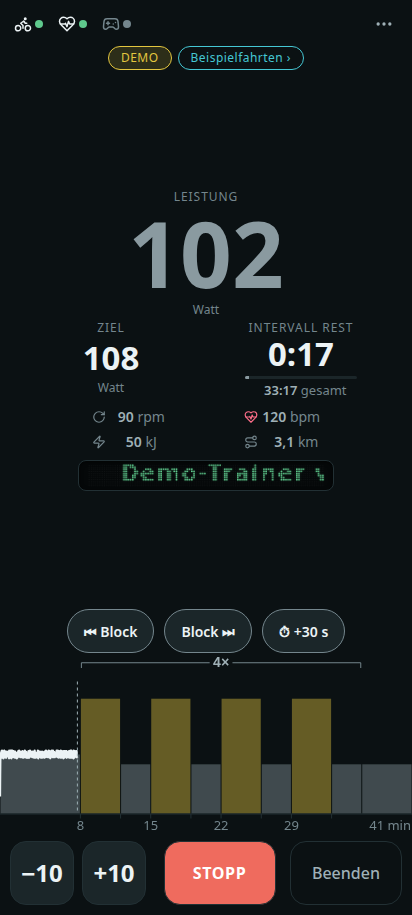
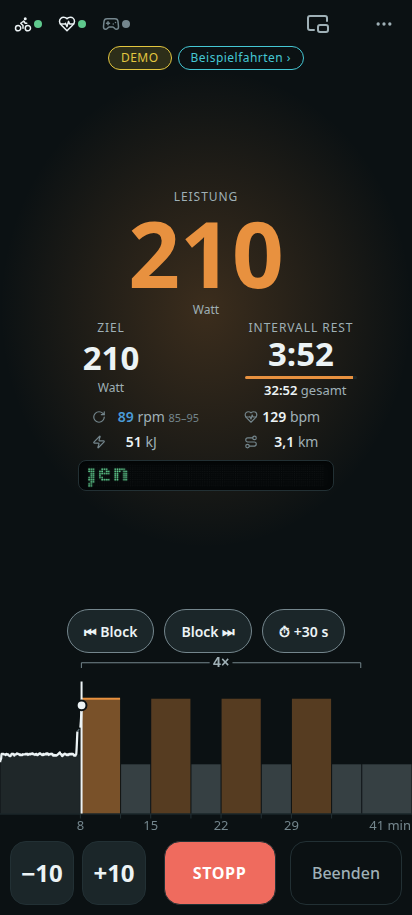
feat: nächsten Block in der LED-Zeile ankündigen, README für 3.6
Rund 12 s vor dem Wechsel zeigt die LED-Zeile Zielwert und Dauer, nur aus Blöcken ab 60 s und bei mindestens 25 W Sprung. Die Meldung endet, sobald der Block läuft. Der Stil-Check führt die Altlasten nicht mehr als Altbestand. README-Bilder sind neu.

Claude-Session: https://claude.ai/code/session_01B8z44TMxjx6VYNVahZVfmM

diff --git a/js/ui/ride.js b/js/ui/ride.js
@@ -26,6 +26,10 @@ import { zeigeBelegung } from './lenker-karte.js';
 import { LedZeile } from './led-zeile.js';
 import { tokenLeser } from './tokens.js';
 
+const ANKUENDIGEN_VOR_S = 12;     // so lange vor dem Wechsel läuft die Ankündigung an
+const ANKUENDIGEN_AB_S = 60;      // nur aus Blöcken ab dieser Länge
+const ANKUENDIGEN_SPRUNG_W = 25;  // nur bei spürbarem Sprung
+
 const STOPP_SPERRE_MS = 3000;     // Panik-Schutz nach Not-Stopp
 const HALTEN_PAUSE_MS = 500;      // ±-Knopf halten: erste Wiederholung
 const HALTEN_TAKT_MS = 300;       //   … danach im Takt
@@ -70,7 +74,7 @@ export class RideScreen {
     this.#abmelden = beobachte(this.$('#live-chart'), () => this.render());
     // session stirbt mit der Fahrt (Abos dort unkritisch); Pool-Clients leben
     // weiter — deren Listener MÜSSEN in destroy() wieder abgebaut werden
-    session.addEventListener('tick', () => { this.render(); this.#pip?.update(); });
+    session.addEventListener('tick', () => { this.render(); this.#kuendigeAn(); this.#pip?.update(); });
     session.addEventListener('target', () => { this.render(); this.#pip?.update(); });
     session.addEventListener('error', e => this.#info(e.detail, 'err'));
     // Startmeldung: zeigt, womit gefahren wird — und dass die Tafel lebt.
@@ -99,6 +103,8 @@ export class RideScreen {
   #cursorBlinkBis = 0;
   #zustaende = new Map();     // Statuszeile: art → { text, cls }
   #infoMeldung = null;        // einmalige Meldung { text, cls, neu }
+  #angekuendigt = -1;         // Block, dessen Nachfolger schon angekündigt wurde
+  #ankuendigung = null;       // Text der letzten Ankündigung
   #wartenderHinweis = null;   // leiser Hinweis hinter einer laufenden Fehlermeldung
   #abmelden = null;           // Resize-Beobachtung des Charts
   #rpmAbweichSeit = null;     // Fahrzeit (s), seit die Kadenz außerhalb des Bereichs liegt
@@ -200,10 +206,34 @@ export class RideScreen {
     }, verzoegerung);
   }
 
+  // Nächsten Block kurz vorher ankündigen: Laufschrift mit Zielwert und Dauer, weil
+  // die Schrift Zeit braucht, schon 12 s vorher. Kurze oder kleine Wechsel (30/30,
+  // Rampentest) bleiben still, sonst liefe die Tafel ununterbrochen.
+  #kuendigeAn() {
+    const run = this.run;
+    if (!run || run.index < 0 || this.session.gestoppt || run.index === this.#angekuendigt) return;
+    const b = run.aktuellerBlock, n = run.naechsterBlock, rest = run.restImBlock;
+    if (!b || !n || b.dauer < ANKUENDIGEN_AB_S || rest > ANKUENDIGEN_VOR_S || rest <= 3) return;
+    this.#angekuendigt = run.index;
+    const ziel = run.zielFuer(n);
+    if (Math.abs(ziel - run.zielFuer(b)) < ANKUENDIGEN_SPRUNG_W || this.$('#dlg-fahrt-optionen').open) return;
+    this.#ankuendigung = `Gleich ${ziel} W · ${n.dauer % 60 ? fmtTime(n.dauer) : `${n.dauer / 60} min`}`;
+    this.hinweis(this.#ankuendigung);
+  }
+
+  // Der Block ist da: eine noch laufende Ankündigung wäre jetzt falsch
+  #beendeAnkuendigung() {
+    if (this.#wartenderHinweis === this.#ankuendigung) this.#wartenderHinweis = null;
+    if (this.#infoMeldung?.text !== this.#ankuendigung) return;
+    this.#infoMeldung = null;
+    this.#zeigeStatus();
+  }
+
   #bindProgramm() {
     const run = this.run;
     let prevWatt = null;
     run.addEventListener('block', e => {
+      this.#beendeAnkuendigung();
       const tonGespielt = prevWatt !== null && this.tonAn;
       if (tonGespielt) signal.blockwechsel(e.detail.watt > prevWatt);
       prevWatt = e.detail.watt;

diff --git a/css/app.css b/css/app.css
@@ -585,7 +585,7 @@ body:has(#screen-ride:not([hidden])) { overflow: hidden; }
 /* Geräte-Symbol ohne Rahmen: Icon + Zustandspunkt, Tippfläche 44 px */
 .kopf-geraet, .kopf-pip, .kopf-mehr {
   width: var(--tippflaeche); height: var(--tippflaeche); padding: 0; background: none; color: var(--ink2);
-  display: inline-flex; align-items: center; justify-content: center; gap: 3px;
+  display: inline-flex; align-items: center; justify-content: center; gap: var(--abstand-05);
 }
 .kopf-geraet > span { display: flex; }
 .kopf-geraet svg, .kopf-pip svg { width: var(--icon-m); height: var(--icon-m); }

diff --git a/README.md b/README.md
@@ -65,6 +65,23 @@ dem Gerät.
 | Auswertung | Dauer, Ø/max/NP, IF/TSS, HF, Distanz (aus Trainer-Speed integriert, im ERG-Modus gangabhängig), Zeit in Zonen, Soll/Ist-Vergleich pro Block, Wochenbilanz, TCX-Export, Akkuverbrauch pro Fahrt |
 | Plattform | Installierbare PWA, offlinefähig, alles lokal in IndexedDB — kein Server, keine Cloud; Demo-Modus ohne Trainer (Button auf dem Startbildschirm) |
 
+## Neu in 3.6
+
+- **Klarerer Graph in der Fahrt:** Der laufende Block sticht heraus, Vergangenes
+  tritt zurück, die Jetzt-Linie ist durchgezogen, die Leistungslinie ruhig. Wattachse
+  und Blockzahlen stören sich und die Linie nicht mehr. Die freie Fahrt zeigt
+  Zonenfarben.
+- **Nächster Block in der LED-Zeile:** rund 12 s vorher „Gleich 210 W · 4 min“.
+- **Zonen-Glut auch hochkant:** ein weicher Schein hinter der Wattzahl.
+- **Programmuhr läuft im Hintergrund weiter:** Bei Bildschirm aus oder Bild-in-Bild
+  holt sie verpasste Sekunden auf, samt Blockwechsel und kJ.
+- **Programme starten direkt im ersten Block**, ohne Rampe vom Startwert.
+- **Fehler bei Import und Löschen bleiben stehen**, bis du sie bestätigst.
+- **`.zwo`-Import prüft die Werte:** unplausible Leistung und Dauer werden abgewiesen,
+  die Kadenz bleibt auch bei Warmup, Cooldown, Rampen und freier Fahrt erhalten.
+- **Stabilere Verbindungen und Tests:** Reconnect endet mit der Fahrt, Geräte ohne
+  passenden Dienst melden sich, schärfere Prüfwerkzeuge.
+
 ## Neu in 3.5
 
 - **Cockpit im Querformat:** Riesige Wattzahl links, Graph in der Mitte,

diff --git a/docs/stil.md b/docs/stil.md
@@ -97,6 +97,9 @@ Rollen:
   der Anzeige nach Auflösung geglättet (etwa 2,5 Pixel, mindestens 3 s); gespeichert
   bleiben die Rohwerte. Im Detail steht die Wattachse in einer eigenen Spalte links,
   Blocklabels stehen in einer Reihe am Fuß der Balken.
+- Ankündigung des nächsten Blocks: Die LED-Zeile zeigt rund 12 s vorher Zielwert
+  und Dauer („Gleich 210 W · 4 min“), nur aus Blöcken ab 60 s und bei mindestens
+  25 W Sprung; sie endet, sobald der Block läuft.
 - Symbole: `--icon-xs` 12 · `--icon-s` 14 · `--icon-m` 18 · `--icon-l` 20 · `--icon-xl` 24.
 
 ## Bausteine
